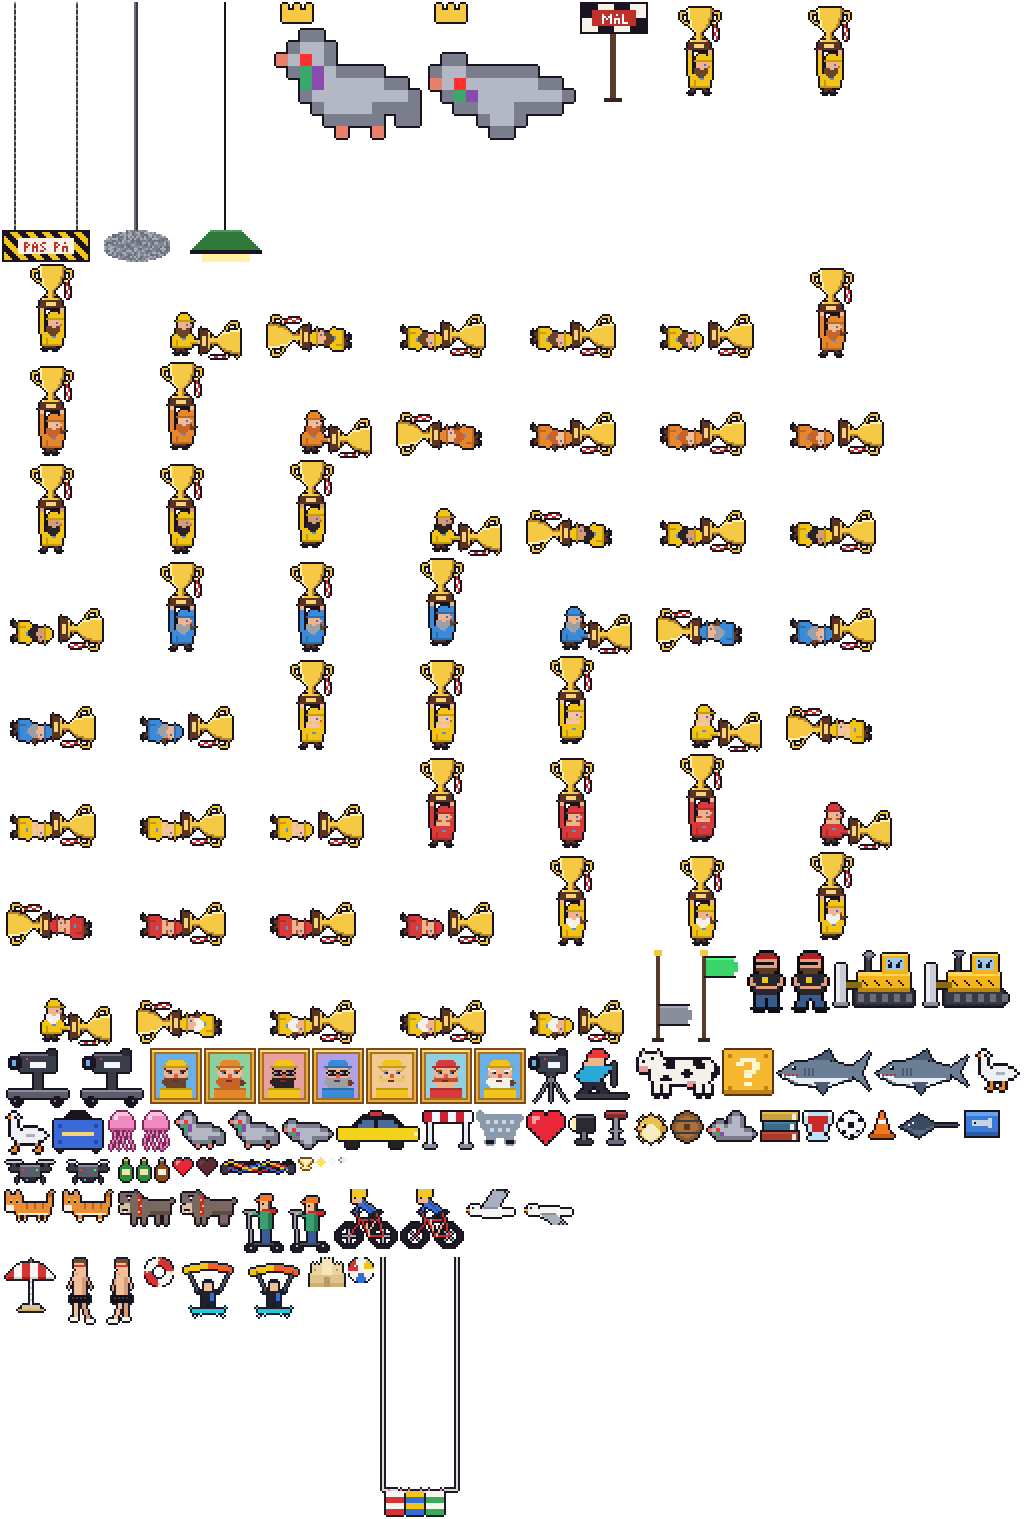
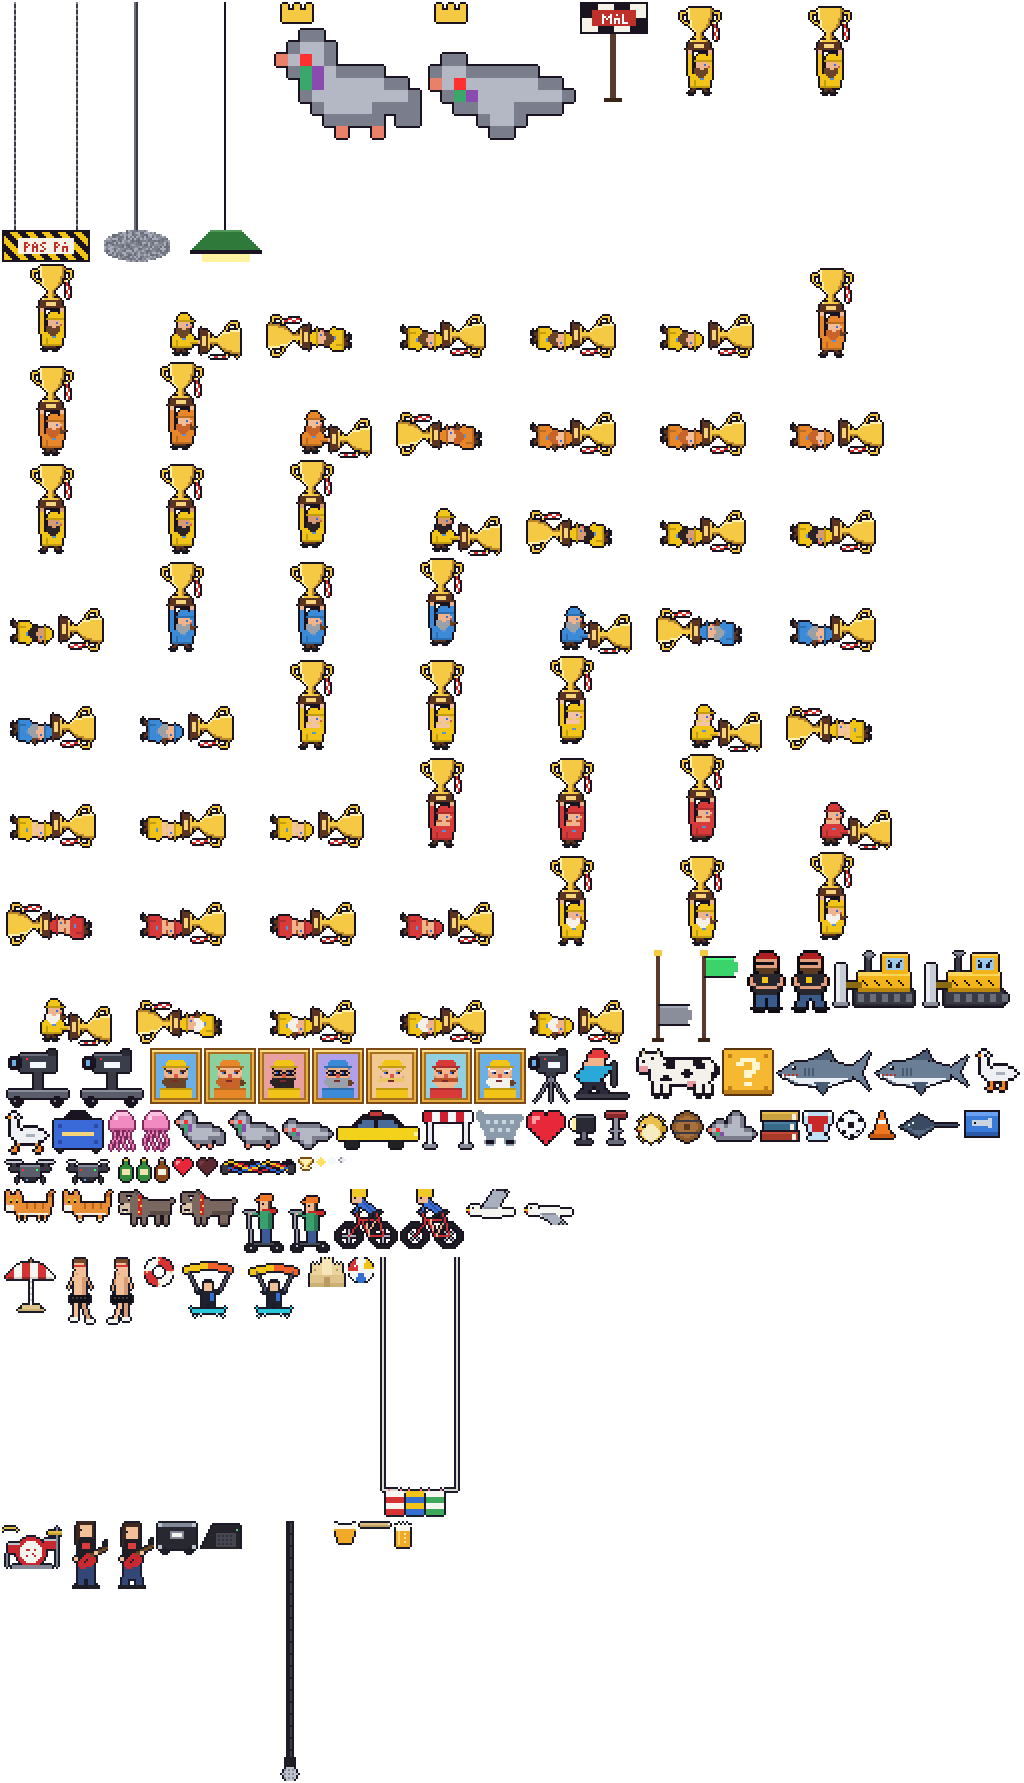
Ny bane: Amager Bio (v0.8)
Bane 9 af 12. Ruten går nu Amager Centret, Amager Bio, ud ad Øresundsvej
til Strandparken, op til Bodegaen og CopenHill. Fadøl i stedet for flasker,
trommesæt og guitarister man skal hoppe over, en mikrofon der svinger fra
loftet, flightcases, monitorer, kastede krus og trommestikker. Band på
scenen og dansende publikum. Fem quizspørgsmål om Amager Bio.

Claude-Session: https://claude.ai/code/session_01TdJqpWSDtCY9oUroQkMQMA

diff --git a/src/data/levels.js b/src/data/levels.js
@@ -187,16 +187,23 @@ export const LEVELS = [
     outro: ['b3', 'g'],
   },
   {
-    id: 'jaguaren', name: 'Bodegaen', theme: 'jaguaren', speed: [300, 370], gap: 1,
-    intro: ['r8', 'b3', { hint: 'ROCKERE SLÅR MAN IKKE. HOP!' }, 'x', 'f'],
-    waves: [{ n: 13, pool: 'med', quiz: true }, { n: 8, pool: 'hard', shot: true }, { n: 9, pool: 'hard', quiz: true }],
+    id: 'amagerbio', name: 'Amager Bio', theme: 'amagerbio', speed: [295, 362], gap: 1,
+    intro: ['r8', { hint: 'FADØL! SAML DEM OP' }, 'b3', { hint: 'MUSIKERE OG TROMMESÆT: HOP!' }, 'x',
+      { hint: 'MIKROFONEN SVINGER: SLIDE UNDER' }, 'l', 'f'],
+    waves: [{ n: 12, pool: 'med', quiz: true }, { n: 9, pool: 'hard', shot: true }, { n: 9, pool: 'hard', quiz: true }],
     outro: ['b3', 'g'],
   },
   {
-    id: 'strandpark', name: 'Amager Strandpark', theme: 'strandpark', speed: [305, 375], gap: 1, extra: BALLS,
+    id: 'strandpark', name: 'Amager Strandpark', theme: 'strandpark', speed: [300, 368], gap: 1, extra: BALLS,
     intro: ['r8', 'b3', { hint: 'NUDISTER OG PARASOLLER: HOP!' }, 'x', { hint: 'KITESURFERE: SLÅ DEM NED ELLER SLIDE' }, 'f',
       { hint: 'REDNINGSKRANSE OG BADEBOLDE: SLÅ DEM VÆK' }, 'd', 'o'],
     waves: [{ n: 12, pool: 'med', quiz: true }, { n: 9, pool: 'hard', shot: true }, { n: 10, pool: 'hard', quiz: true }],
+    outro: ['b3', 'g'],
+  },
+  {
+    id: 'jaguaren', name: 'Bodegaen', theme: 'jaguaren', speed: [305, 374], gap: 1,
+    intro: ['r8', 'b3', { hint: 'ROCKERE SLÅR MAN IKKE. HOP!' }, 'x', 'f'],
+    waves: [{ n: 13, pool: 'med', quiz: true }, { n: 8, pool: 'hard', shot: true }, { n: 9, pool: 'hard', quiz: true }],
     outro: ['b3', 'g'],
   },
   {

diff --git a/src/data/entities.js b/src/data/entities.js
@@ -107,6 +107,26 @@ export const THEMES = {
       l: { frame: 'obst/lamp', box: [60, 28] },
     },
   },
+  // Amager Bio: fadøl i stedet for flasker, flightcases der ruller, kastede krus og trommestikker,
+  // monitorer på gulvet, en mikrofon der svinger fra loftet, og trommesæt og guitarister man skal hoppe over.
+  amagerbio: {
+    midFrames: 2,
+    ents: {
+      b: { frame: 'item/fadoel' },
+      d: { frame: 'obst/flightcase', anim: null, box: [40, 30], vx: -90, score: 250, fx: 'fx/puff' },
+      f: {
+        frame: 'obst/cup', anim: null, box: [20, 22], vx: -160, wave: 0, spin: -540, score: 250, fx: 'fx/foam',
+        variants: [{ frame: 'obst/cup', box: [20, 22], vx: -150, spin: -540, score: 250 }, { frame: 'obst/stick', box: [30, 10], vx: -160, spin: -720, score: 300 }],
+      },
+      k: { frame: 'obst/monitor', box: [40, 26], score: 150 },
+      x: {
+        frame: 'obst/drums', box: [50, 40], vx: -26, bonk: 'BOING!',
+        variants: [{ frame: 'obst/drums', anim: null, box: [50, 40], vx: 0, bonk: 'BOING!' }, { anim: 'guitar_walk', box: [32, 56], vx: -26, bonk: "ROCK'N'ROLL!" }],
+      },
+      // sway: hvor langt (radianer) mikrofonen svinger, swayMs: hvor hurtigt
+      l: { frame: 'obst/mic', box: [30, 30], sway: 0.14, swayMs: 450 },
+    },
+  },
   // Amager Strandpark: kitesurfere og måger i luften, redningskranse der ruller, badebolde der hopper,
   // sandslotte, håndklæder på snor og parasoller og nudister, man skal hoppe over.
   strandpark: {

diff --git a/src/scenes/LevelScene.js b/src/scenes/LevelScene.js
@@ -231,6 +231,7 @@ export default class LevelScene extends Phaser.Scene {
     const s = this.add.sprite(sp.x, y, 'atlas', def.frame).setDepth(DEPTH.ent).setOrigin(0.5, bottom ? 1 : 0.5);
     if (def.anim) s.play(def.anim);
     const e = { sp, def, s, bottom, baseY: y, hp: def.hp ?? 1, alive: true, lastSwingId: -1, phase: sp.x * 0.7 };
+    if (def.sway) { s.setOrigin(0.5, 0); s.y = y - s.height; }   // ophænget er øverst
     this.ents.push(e);
     return e;
   }
@@ -243,6 +244,12 @@ export default class LevelScene extends Phaser.Scene {
 
   entRect(e) {
     const [w, h] = e.def.box || [e.s.width, e.s.height];
+    if (e.def.sway) {
+      // bunden af det, der svinger: ophænget plus længden drejet med vinklen
+      const bx = e.s.x - Math.sin(e.s.rotation) * e.s.height;
+      const by = e.s.y + Math.cos(e.s.rotation) * e.s.height;
+      return { x: bx - w / 2, y: by - h, w, h };
+    }
     return e.bottom ? { x: e.s.x - w / 2, y: e.s.y - h, w, h } : { x: e.s.x - w / 2, y: e.s.y - h / 2, w, h };
   }
 
@@ -259,6 +266,7 @@ export default class LevelScene extends Phaser.Scene {
       if (d.bob) e.s.y = e.baseY + Math.round(Math.sin((now + e.phase) / 260) * d.bob);
       if (d.wave) e.s.y = e.baseY + Math.sin((now + e.phase) / 220) * d.wave;
       if (d.spin) e.s.angle += d.spin * dt;
+      if (d.sway) e.s.rotation = Math.sin((now + e.phase) / (d.swayMs || 450)) * d.sway;
       if (d.bounce) {
         e.vy = (e.vy ?? 0) + 1300 * dt;
         e.s.y += e.vy * dt;

diff --git a/server/worker-public.js b/server/worker-public.js
@@ -23,7 +23,7 @@
 //   GET  /admin/rejected                -> de seneste afviste løb (mistanke om snyd)
 
 const FISHERS = ['f1', 'f2', 'f3', 'f4', 'f5', 'f6', 'f7'];
-const LEVELS = ['dragoer', 'lufthavn', 'blaaplanet', 'idraetspark', 'faelled', 'dr', 'campus', 'center', 'jaguaren', 'strandpark', 'copenhill'];
+const LEVELS = ['dragoer', 'lufthavn', 'blaaplanet', 'idraetspark', 'faelled', 'dr', 'campus', 'center', 'amagerbio', 'strandpark', 'jaguaren', 'copenhill'];
 const NAME_MAX = 12;
 
 // Regnet ud fra banerne (src/data/levels.js) med fuld score på alt, shot-bonus og fire hjerter.
@@ -39,8 +39,9 @@ const LIMITS = {
   dr: { max: 22500, sec: 85 },
   campus: { max: 23900, sec: 85 },
   center: { max: 25500, sec: 94 },
-  jaguaren: { max: 23400, sec: 101 },
+  amagerbio: { max: 26700, sec: 107 },
   strandpark: { max: 29600, sec: 103 },
+  jaguaren: { max: 23400, sec: 99 },
   copenhill: { max: 39200, sec: 109, perSec: 320 },
 };
 const MIN_SHARE = 0.8;            // et løb skal tage mindst 80% af banens tid

diff --git a/src/data/quiz.js b/src/data/quiz.js
@@ -2,6 +2,11 @@
 // Rækkefølgen af svarene blandes i spillet. Fakta tjekket 23/11 2026.
 
 export const QUIZ = [
+  { q: 'Hvad var Amager Bio, før det blev spillested?', a: ['En biograf', 'En fabrik', 'En svømmehal'] },
+  { q: 'Hvilket år blev Amager Bio et spillested?', a: ['1997', '1986', '2005'] },
+  { q: 'Hvad hedder Amager Bios lille scene?', a: ['BETA', 'ALFA', 'Lillesalen'] },
+  { q: 'Hvilken vej ligger Amager Bio på?', a: ['Øresundsvej', 'Holmbladsgade', 'Amagerbrogade'] },
+  { q: 'Hvor mange stående gæster kan Amager Bio cirka rumme?', a: ['1.300', '500', '3.000'] },
   { q: 'Hvilket år åbnede Amager Strandpark med den kunstige ø?', a: ['2005', '1998', '2011'] },
   { q: 'Hvor lang er stranden i Amager Strandpark cirka?', a: ['4,6 km', '2 km', '8 km'] },
   { q: 'Hvad hedder badeanstalten på pæle i nordenden af Amager Strand?', a: ['Helgoland', 'Sneglen', 'Kalvebod Bølge'] },

diff --git a/index.html b/index.html
@@ -7,7 +7,7 @@
 <meta name="author" content="ai-workshop.dk">
 <meta property="og:site_name" content="ai-workshop.dk">
 <meta property="og:title" content="Julefrokost på Amager: kan du slå topscoren?">
-<meta property="og:description" content="Et spil fra ai-workshop. Elleve baner fra Dragør over Amager Strand til CopenHill. Spil på mobilen, kom på listen og lås hemmeligheden op.">
+<meta property="og:description" content="Et spil fra ai-workshop. Tolv baner fra Dragør over Amager Bio og Amager Strand til CopenHill. Spil på mobilen, kom på listen og lås hemmeligheden op.">
 <meta property="og:type" content="website">
 <meta property="og:image" content="https://rapsak5.github.io/amager-spillet/assets/og.png">
 <meta name="twitter:card" content="summary_large_image">

diff --git a/src/scenes/MapScene.js b/src/scenes/MapScene.js
@@ -17,7 +17,8 @@ const NODES = {
   faelled: { x: 248, y: 204, lx: -22, ox: 1 },
   dr: { x: 232, y: 160, lx: -22, ox: 1 },
   campus: { x: 228, y: 118, lx: -22, ox: 1 },
-  center: { x: 296, y: 108, lx: 22, ox: 0 },
+  center: { x: 296, y: 108, lx: -10, ly: 24, ox: 0.5 },
+  amagerbio: { x: 348, y: 110, lx: 22, ox: 0 },
   jaguaren: { x: 322, y: 76, lx: -22, ox: 1 },
   strandpark: { x: 394, y: 70, lx: 0, ly: 22, ox: 0.5 },
   copenhill: { x: 340, y: 40, lx: 22, ox: 0 },

diff --git a/src/scenes/BootScene.js b/src/scenes/BootScene.js
@@ -63,6 +63,7 @@ export default class BootScene extends Phaser.Scene {
     loop('jelly', ['enemy/jelly0', 'enemy/jelly1'], 4);
     loop('nudist_run', ['enemy/nudist0', 'enemy/nudist1'], 8);
     loop('kite_fly', ['enemy/kite0', 'enemy/kite1'], 4);
+    loop('guitar_walk', ['enemy/guitar0', 'enemy/guitar1'], 5);
 
     // Spillet er klar: ai-workshops logo fra index.html må gå
     if (typeof window.__hideSplash === 'function') window.__hideSplash();

diff --git a/src/systems/secret.js b/src/systems/secret.js
@@ -15,7 +15,7 @@ export function validEmail(raw) { return EMAIL.test(cleanEmail(raw)); }
 
 const ERRORS = {
   email: 'Det ligner ikke en mailadresse.',
-  notdone: 'Klar alle elleve baner først.',
+  notdone: 'Klar alle tolv baner først.',
   taken: 'Den mail har allerede fået en kode.',
   limit: 'Der er hentet nok koder fra denne enhed.',
   name: 'Vælg først et navn på kortet.',

diff --git a/src/config.js b/src/config.js
@@ -1,6 +1,6 @@
 // Fælles konstanter. Alt, der skal justeres på spilfølelsen, står i TUNING.
 
-export const VERSION = '0.7.0-pub';
+export const VERSION = '0.8.0-pub';
 
 // Offentlig udgave til promovering. Alle kan spille, vælge fisker og skrive et navn.
 

diff --git a/README.md b/README.md
@@ -1,11 +1,11 @@
 # Julefrokost på Amager (offentlig udgave)
 
-Lille 16-bit pixelspil fra ai-workshop.dk. Spilles i browseren, også på mobilen. Skriv dit navn, vælg en fisker og kom på topscorerlisten. Klar alle elleve baner og lås hemmeligheden op: en personlig rabatkode til en workshop fra ai-workshop.
+Lille 16-bit pixelspil fra ai-workshop.dk. Spilles i browseren, også på mobilen. Skriv dit navn, vælg en fisker og kom på topscorerlisten. Klar alle tolv baner og lås hemmeligheden op: en personlig rabatkode til en workshop fra ai-workshop.
 
 Spil: https://rapsak5.github.io/amager-spillet/
 
 - Spillet: almindelig JavaScript med Phaser 4, uden build-trin. Start i `index.html`.
 - Topscorerlisten: Cloudflare Worker i `server/worker-public.js` med D1-databasen `amager-spil-scores` bundet som `DB`. Variabler: `ALLOWED_ORIGIN` og secret `ADMIN_TOKEN`.
 - Snyd: point kommer kun ind gennem et løb, som serveren selv har startet og taget tid på (`/run/start` og `/run/finish`). Et løb, der er hurtigere end banen kan løbes, eller giver flere point end banen har, bliver afvist. Der er grænser for, hvor tit man kan kalde serveren, og kun spillets egen side må sende.
-- Rabatkoder: `POST /claim` giver en kode til spillere med godkendte løb på alle elleve baner. Én kode pr. mail, højst 3 pr. enhed. `GET /admin/codes` viser koderne, og `POST /admin/used` med `{ "code": "AMA-..." }` markerer en kode som brugt. Valgfrit til mail og nyhedsbrev: `BREVO_API_KEY` (secret), `BREVO_SENDER_EMAIL`, `BREVO_SENDER_NAME` og `BREVO_LIST_ID`.
+- Rabatkoder: `POST /claim` giver en kode til spillere med godkendte løb på alle tolv baner. Én kode pr. mail, højst 3 pr. enhed. `GET /admin/codes` viser koderne, og `POST /admin/used` med `{ "code": "AMA-..." }` markerer en kode som brugt. Valgfrit til mail og nyhedsbrev: `BREVO_API_KEY` (secret), `BREVO_SENDER_EMAIL`, `BREVO_SENDER_NAME` og `BREVO_LIST_ID`.
 - Skjul et navn: `POST /admin/hide` med `{ "pid": "...", "hidden": true }` og headeren `Authorization: Bearer <ADMIN_TOKEN>`. `GET /admin/players` viser alle spillere med pid, og `GET /admin/rejected` viser afviste løb. Uden `ADMIN_TOKEN` (mindst 16 tegn) er admin slået fra.
